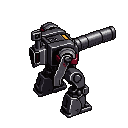
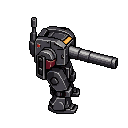
mob_cannon 스틸 넷 설치 · HUD 썸네일 · 드론 광역 규격 확정
- 승인본 넷이 리포에 한 장도 안 들어가 있었다. 남 북 서는 09-18
  승인인데 옮기지 않아 리포가 반려된 아이소메트릭 판을 들고 있었다
- east 는 09-21 승인. 서면의 거울로 겹침 0.955
- ui_thumb_robot_a 는 robot_a 승인본에서 (95,58) 을 64 로 잘라낸 것
  새 그림 0 생성 0. meta 는 Unity 배치모드 임포트로 생성했다
- vfx_drone_aoe 캔버스 256 과 한 장이 사용자 확정으로 바뀌었다

Changed region(s): [[0.2188, 0.125, 0.9375, 0.9375]]

diff --git a/Docs/art_log/260921_art.md b/Docs/art_log/260921_art.md
@@ -66,3 +66,47 @@ and its shin overlaps the other leg's shin for one frame, so the two legs visibl
 **「4분의 1」이 장치다** — 「같은 높이가 아니다」만으로는 **한 화소 차이도 만족**이라 눈에 안 보인다.
 쉴드의 「세어 보라: 여섯 변」과 같이 **셀 수 있는 크기**를 준다.
 **「정강이가 한 칸에서 겹친다」도 마찬가지다** — 「교차한다」는 말을 **그림에서 확인 가능한 사건**으로 옮겼다.
+
+## 승인본 설치 셋 (2026-09-21 · 사용자 판정)
+
+**사용자 판정** — `east` 스틸 승인 · `Death` 반려 · HUD 썸네일 **a64** 승인 ·
+`vfx_drone_aoe` 승인(캔버스 256·한 장 **확정**) · `vfx_enemy_shell` 은 **형태는 좋고 색만 적군 색으로** 다시.
+
+⚠ **승인본 넷이 리포에 한 장도 안 들어가 있었다** — 남·북·서는 09-18 승인인데 옮기지 않아
+리포가 **반려된 아이소메트릭 판**을 들고 있었다. 「승인은 이동이 아니다」 재현. 넷을 다 넣었다.
+
+⚠ **`.meta` 가 없어 Unity 를 배치모드로 한 번 돌려 임포트시켰다** — 에디터가 꺼져 있었다.
+`.meta` 는 손으로 만들지 않는다(guid 가 거기에만 있고, 손으로 지으면 클론마다 달라진다).
+
+### `vfx_enemy_shell` 재생성 — 적군 색을 실측해서 넣었다 (20 생성 · object `37355f12`)
+
+**색을 지어내지 않았다.** 유닛 스프라이트에서 채도 0.30 넘는 색을 세어 상위를 뽑았다:
+
+| 진영 | 상위 색 |
+|---|---|
+| **적군** (`mob_cannon` · `mob_armor`) | **`#8C242C` · `#710D23` · `#84222B`** — 진홍 |
+| 플레이어 (`robot_a`) | `#C77C2D` — 주황 |
+
+문안에 **숫자를 그대로 박았다**. 형태는 통과했으므로 「오른쪽을 향하는 긴 포탄 · 뾰족한 탄두 ·
+띠 두른 몸통」은 그대로 두고 색만 갈았다.
+
+⚠ **대장의 한 줄과 부딪친다** — 현행은 「**무채색 — 코드가 탄종색을 틴트한다**」다.
+**제 색을 가진 그림에 틴트를 걸면 진홍이 덮인다.** 색을 넣는 쪽으로 가면 틴트를 꺼야 하고,
+이건 배선 판단이라 설계에 넘긴다.
+
+### `Death` 2차 (3 생성 · group `56647162`)
+
+**반려 사유** — 「무게를 못 견뎌 무너지는 느낌이 아니라 다소곳하게 다리를 오므리며 쭈그린다.
+Death 가 아니라 Crouch 같다.」
+
+**1차 문안의 `legs buckling` 을 도구가 「다리를 접는 동작」으로 읽었다.**
+⚠ **잣대로는 못 잡았을 자리다** — 실루엣 가로세로비가 0.72 -> **1.53** 으로 넘어가 수만 보면
+「쓰러진다」로 읽힌다. 그런데 **키가 102 -> 79 로 23%밖에 안 줄었다.** 정말 누우면 몸통 폭(약 55)까지
+내려가야 한다. **눈의 판정이 이 숫자와 맞는다.**
+
+2차에 넣은 절 셋 — ① 「마지막 칸에 **화면에서의 키가 서 있을 때의 절반 아래**다 ·
+서 있지도 무릎 꿇지도 쭈그리지도 않았다, **누워 있다**」(셀 수 있는 크기를 준다) ·
+② 「다리가 몸 밑에서 **튀어나가 벌어지고 몸에서 떨어진 자리**에 남는다」(규칙 9 — 다리가 **어디에** 있는가) ·
+③ 「**몸통이 다리보다 빨리** 넘어가 균형을 잃고 제 무게로 떨어진다」(「무게를 못 견딘다」를 **순서**로).
+
+**받으면 이 수로 먼저 본다** — 마지막 칸 키가 **51 아래**인가. 1차는 79 였다.
